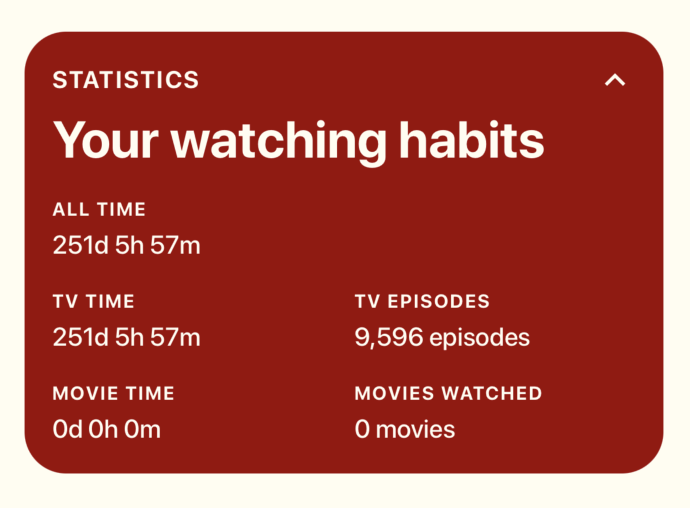
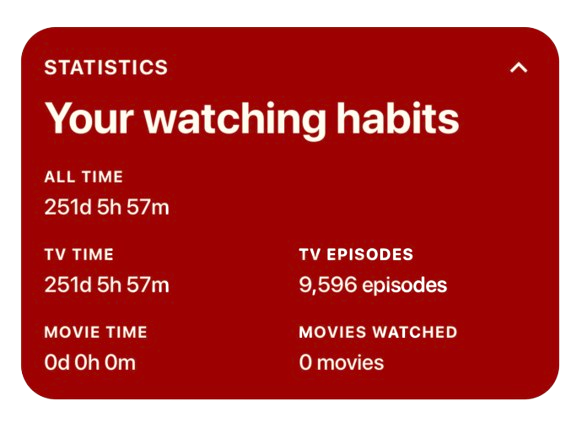
new screens

diff --git a/index.html b/index.html
@@ -146,54 +146,56 @@
       <p class="eyebrow center" data-i18n="screenshots.eyebrow">Screenshot</p>
       <h2 class="center" data-i18n="screenshots.title">Un'app, ogni schermata al posto giusto</h2>
       <div class="gallery">
-        <figure class="gallery-item">
-          <div class="phone phone-sm">
-            <img class="phone-screen" src="assets/screenshots/home_2.png" alt="" />
-          </div>
-          <figcaption data-i18n="screenshots.home">Tendenze, prossime uscite e i più amati, tutto in home</figcaption>
-        </figure>
-        <figure class="gallery-item">
-          <div class="phone phone-sm">
-            <img class="phone-screen" src="assets/screenshots/discover.png" alt="" />
-          </div>
-          <figcaption data-i18n="screenshots.discover">Esplora film e serie tra i più discussi del momento</figcaption>
-        </figure>
-        <figure class="gallery-item">
-          <div class="phone phone-sm">
-            <img class="phone-screen" src="assets/screenshots/lists.png" alt="" />
-          </div>
-          <figcaption data-i18n="screenshots.lists">Organizza preferiti e watchlist in liste personali</figcaption>
-        </figure>
-        <figure class="gallery-item">
-          <div class="phone phone-sm">
-            <img class="phone-screen" src="assets/screenshots/movie_details.png" alt="" />
-          </div>
-          <figcaption data-i18n="screenshots.details">Vota, salva e segna un film come visto</figcaption>
-        </figure>
-        <figure class="gallery-item">
-          <div class="shot-card">
-            <img src="assets/screenshots/personal_watching_stats.png" alt="" />
-          </div>
-          <figcaption data-i18n="screenshots.stats">Monitora il tempo di visione e gli episodi guardati</figcaption>
-        </figure>
-        <figure class="gallery-item">
-          <div class="phone phone-sm">
-            <img class="phone-screen" src="assets/screenshots/track_seasons_episodes.png" alt="" />
-          </div>
-          <figcaption data-i18n="screenshots.episodes">Segna stagioni ed episodi visti, uno per uno</figcaption>
-        </figure>
-        <figure class="gallery-item">
-          <div class="phone phone-sm">
-            <img class="phone-screen" src="assets/screenshots/weekly_releases.png" alt="" />
-          </div>
-          <figcaption data-i18n="screenshots.releases">Non perderti le uscite della settimana</figcaption>
-        </figure>
-        <figure class="gallery-item">
-          <div class="shot-card">
-            <img src="assets/screenshots/import_export_from_other_services.png" alt="" />
-          </div>
-          <figcaption data-i18n="screenshots.importexport">Importa ed esporta le tue liste da altri servizi</figcaption>
-        </figure>
+        <div class="gallery-row">
+          <figure class="gallery-item">
+            <div class="phone phone-sm">
+              <img class="phone-screen" src="assets/screenshots/home_2.png" alt="" />
+            </div>
+            <figcaption data-i18n="screenshots.home">Tendenze, prossime uscite e i più amati, tutto in home</figcaption>
+          </figure>
+          <figure class="gallery-item">
+            <div class="phone phone-sm">
+              <img class="phone-screen" src="assets/screenshots/discover.png" alt="" />
+            </div>
+            <figcaption data-i18n="screenshots.discover">Esplora film e serie tra i più discussi del momento</figcaption>
+          </figure>
+          <figure class="gallery-item">
+            <div class="phone phone-sm">
+              <img class="phone-screen" src="assets/screenshots/lists.png" alt="" />
+            </div>
+            <figcaption data-i18n="screenshots.lists">Organizza preferiti e watchlist in liste personali</figcaption>
+          </figure>
+        </div>
+        <div class="gallery-row">
+          <figure class="gallery-item">
+            <div class="phone phone-sm">
+              <img class="phone-screen" src="assets/screenshots/movie_details.png" alt="" />
+            </div>
+            <figcaption data-i18n="screenshots.details">Vota, salva e segna un film come visto</figcaption>
+          </figure>
+          <figure class="gallery-item">
+            <div class="phone phone-sm">
+              <img class="phone-screen" src="assets/screenshots/track_seasons_episodes.png" alt="" />
+            </div>
+            <figcaption data-i18n="screenshots.episodes">Segna stagioni ed episodi visti, uno per uno</figcaption>
+          </figure>
+          <figure class="gallery-item">
+            <div class="phone phone-sm">
+              <img class="phone-screen" src="assets/screenshots/weekly_releases.png" alt="" />
+            </div>
+            <figcaption data-i18n="screenshots.releases">Non perderti le uscite della settimana</figcaption>
+          </figure>
+        </div>
+        <div class="gallery-row">
+          <figure class="gallery-item">
+            <img class="plain-shot" src="assets/screenshots/personal_watching_stats.png" alt="" />
+            <figcaption data-i18n="screenshots.stats">Monitora il tempo di visione e gli episodi guardati</figcaption>
+          </figure>
+          <figure class="gallery-item">
+            <img class="plain-shot" src="assets/screenshots/import_export_from_other_services.png" alt="" />
+            <figcaption data-i18n="screenshots.importexport">Importa ed esporta le tue liste da altri servizi</figcaption>
+          </figure>
+        </div>
       </div>
     </div>
   </section>

diff --git a/styles.css b/styles.css
@@ -287,25 +287,6 @@ img { max-width: 100%; display: block; }
 
 .phone-sm { width: 180px; height: 374px; border-radius: 30px; border-width: 6px; }
 
-.shot-card {
-  width: 180px;
-  height: 374px;
-  border-radius: 24px;
-  background: var(--surface);
-  border: 1px solid var(--border);
-  display: flex;
-  align-items: center;
-  justify-content: center;
-  padding: 16px;
-  box-sizing: border-box;
-}
-
-.shot-card img {
-  width: 100%;
-  height: auto;
-  object-fit: contain;
-}
-
 .phone-screen {
   position: absolute;
   inset: 0;
@@ -366,6 +347,12 @@ img { max-width: 100%; display: block; }
 
 .gallery {
   display: flex;
+  flex-direction: column;
+  gap: 40px;
+}
+
+.gallery-row {
+  display: flex;
   gap: 24px;
   justify-content: center;
   flex-wrap: wrap;
@@ -374,6 +361,13 @@ img { max-width: 100%; display: block; }
 .gallery-item {
   margin: 0;
   text-align: center;
+}
+
+.plain-shot {
+  width: 180px;
+  height: auto;
+  border-radius: 18px;
+  display: block;
 }
 
 .gallery-item figcaption {